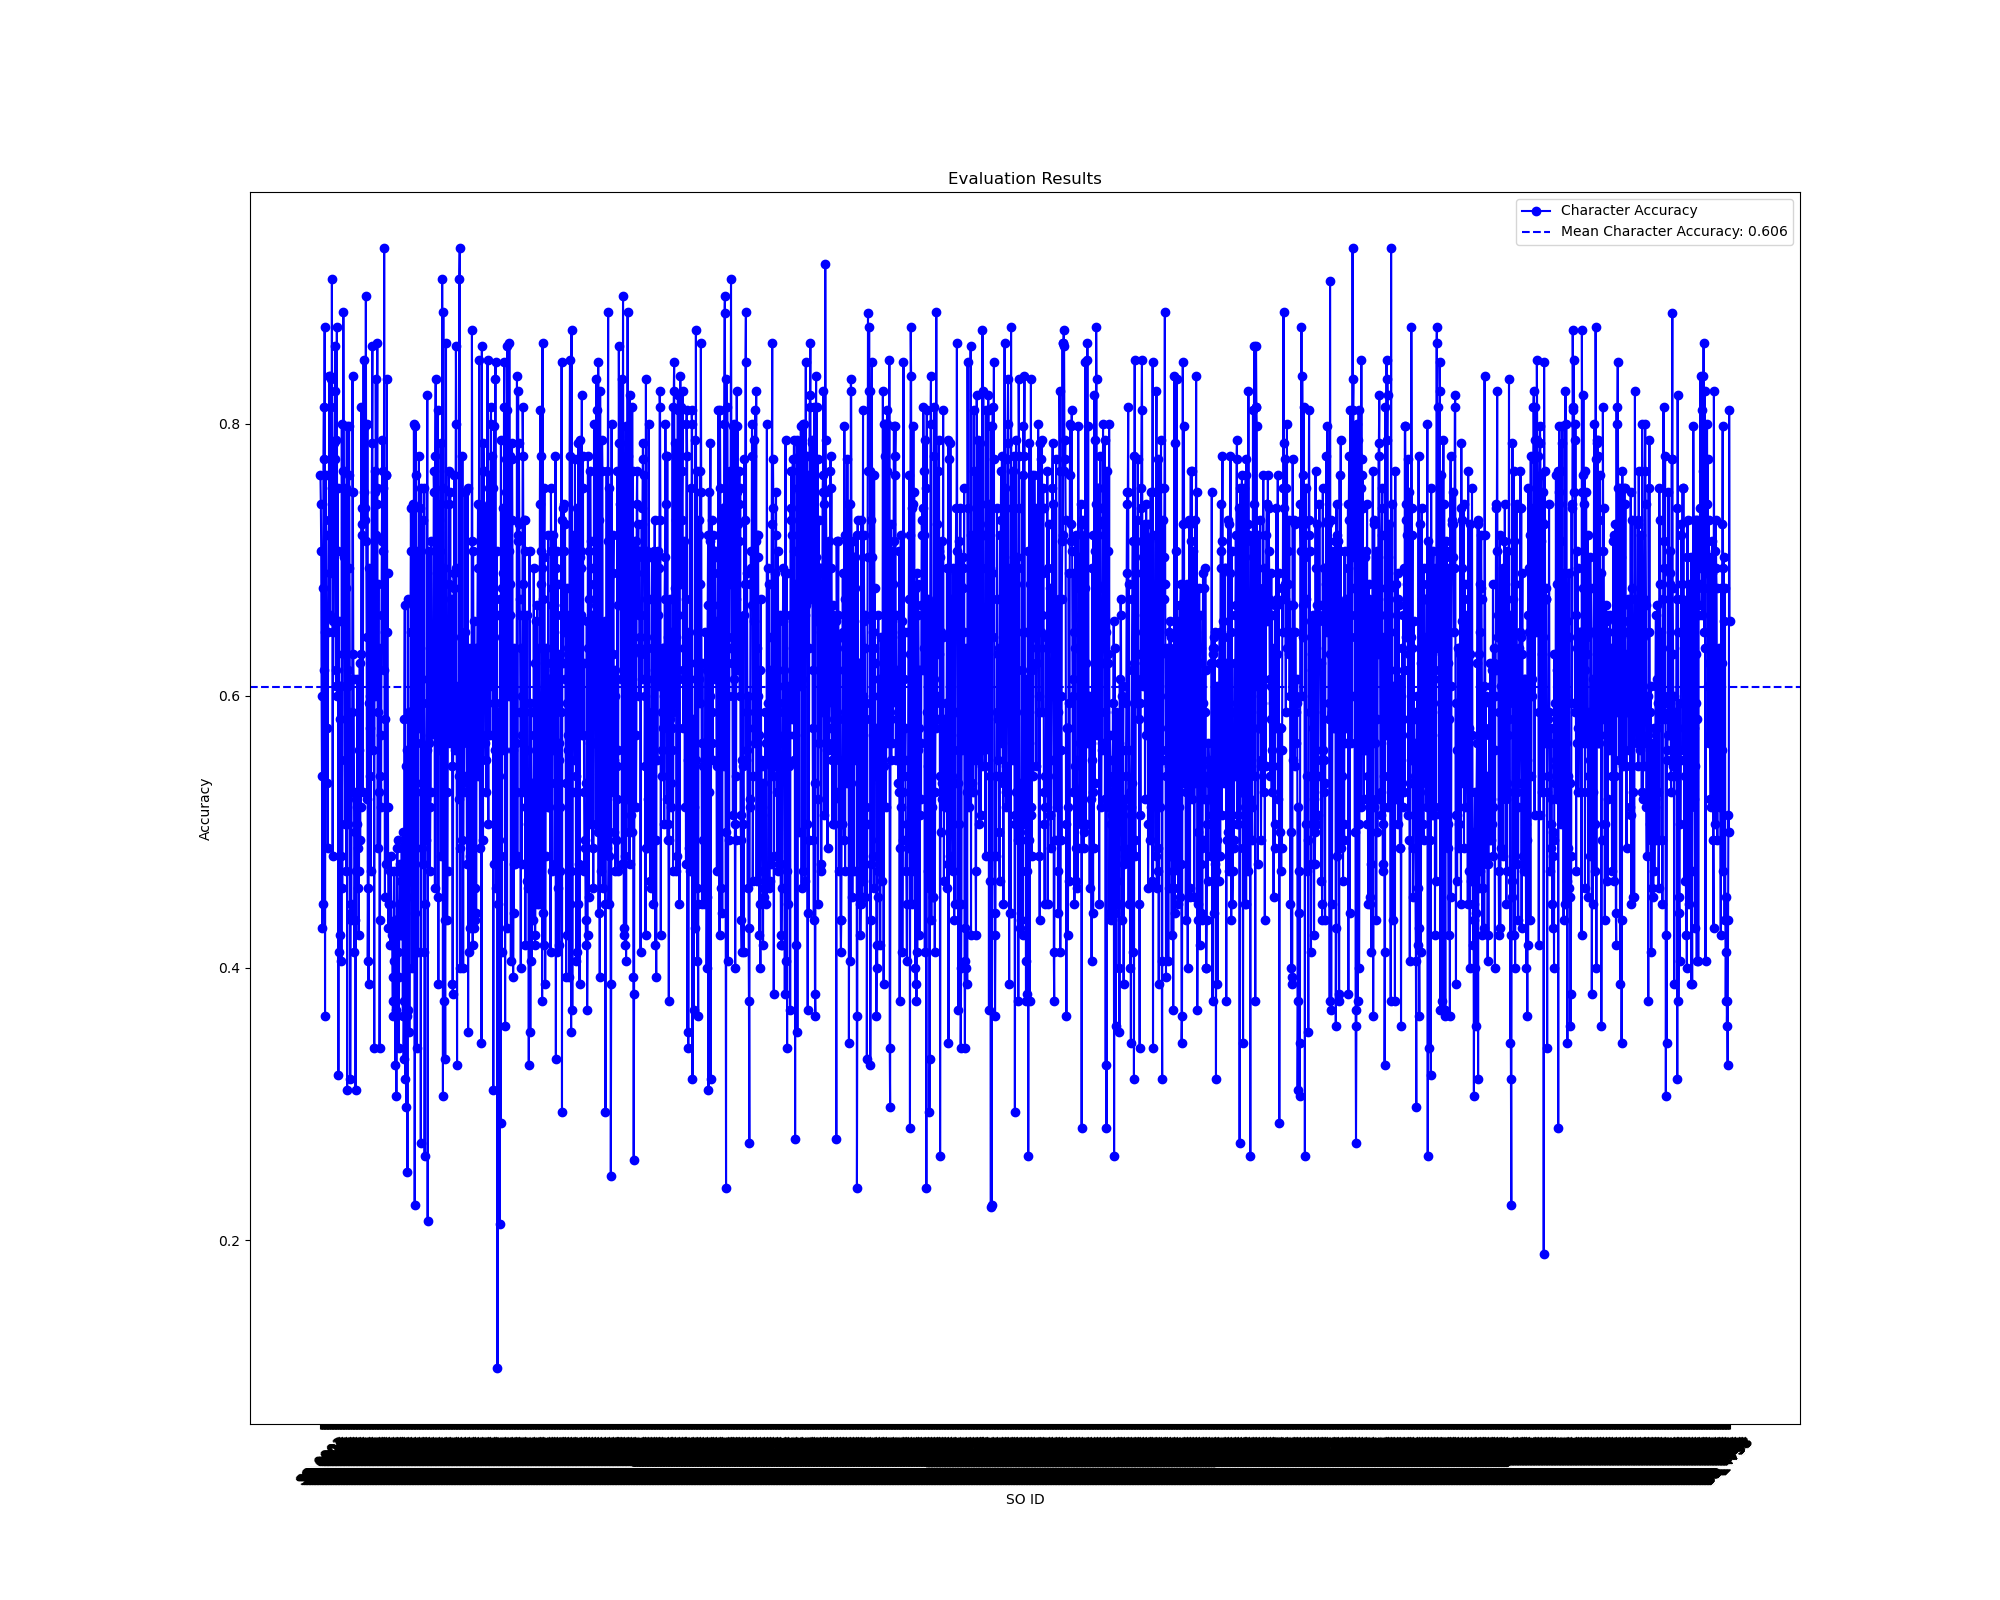
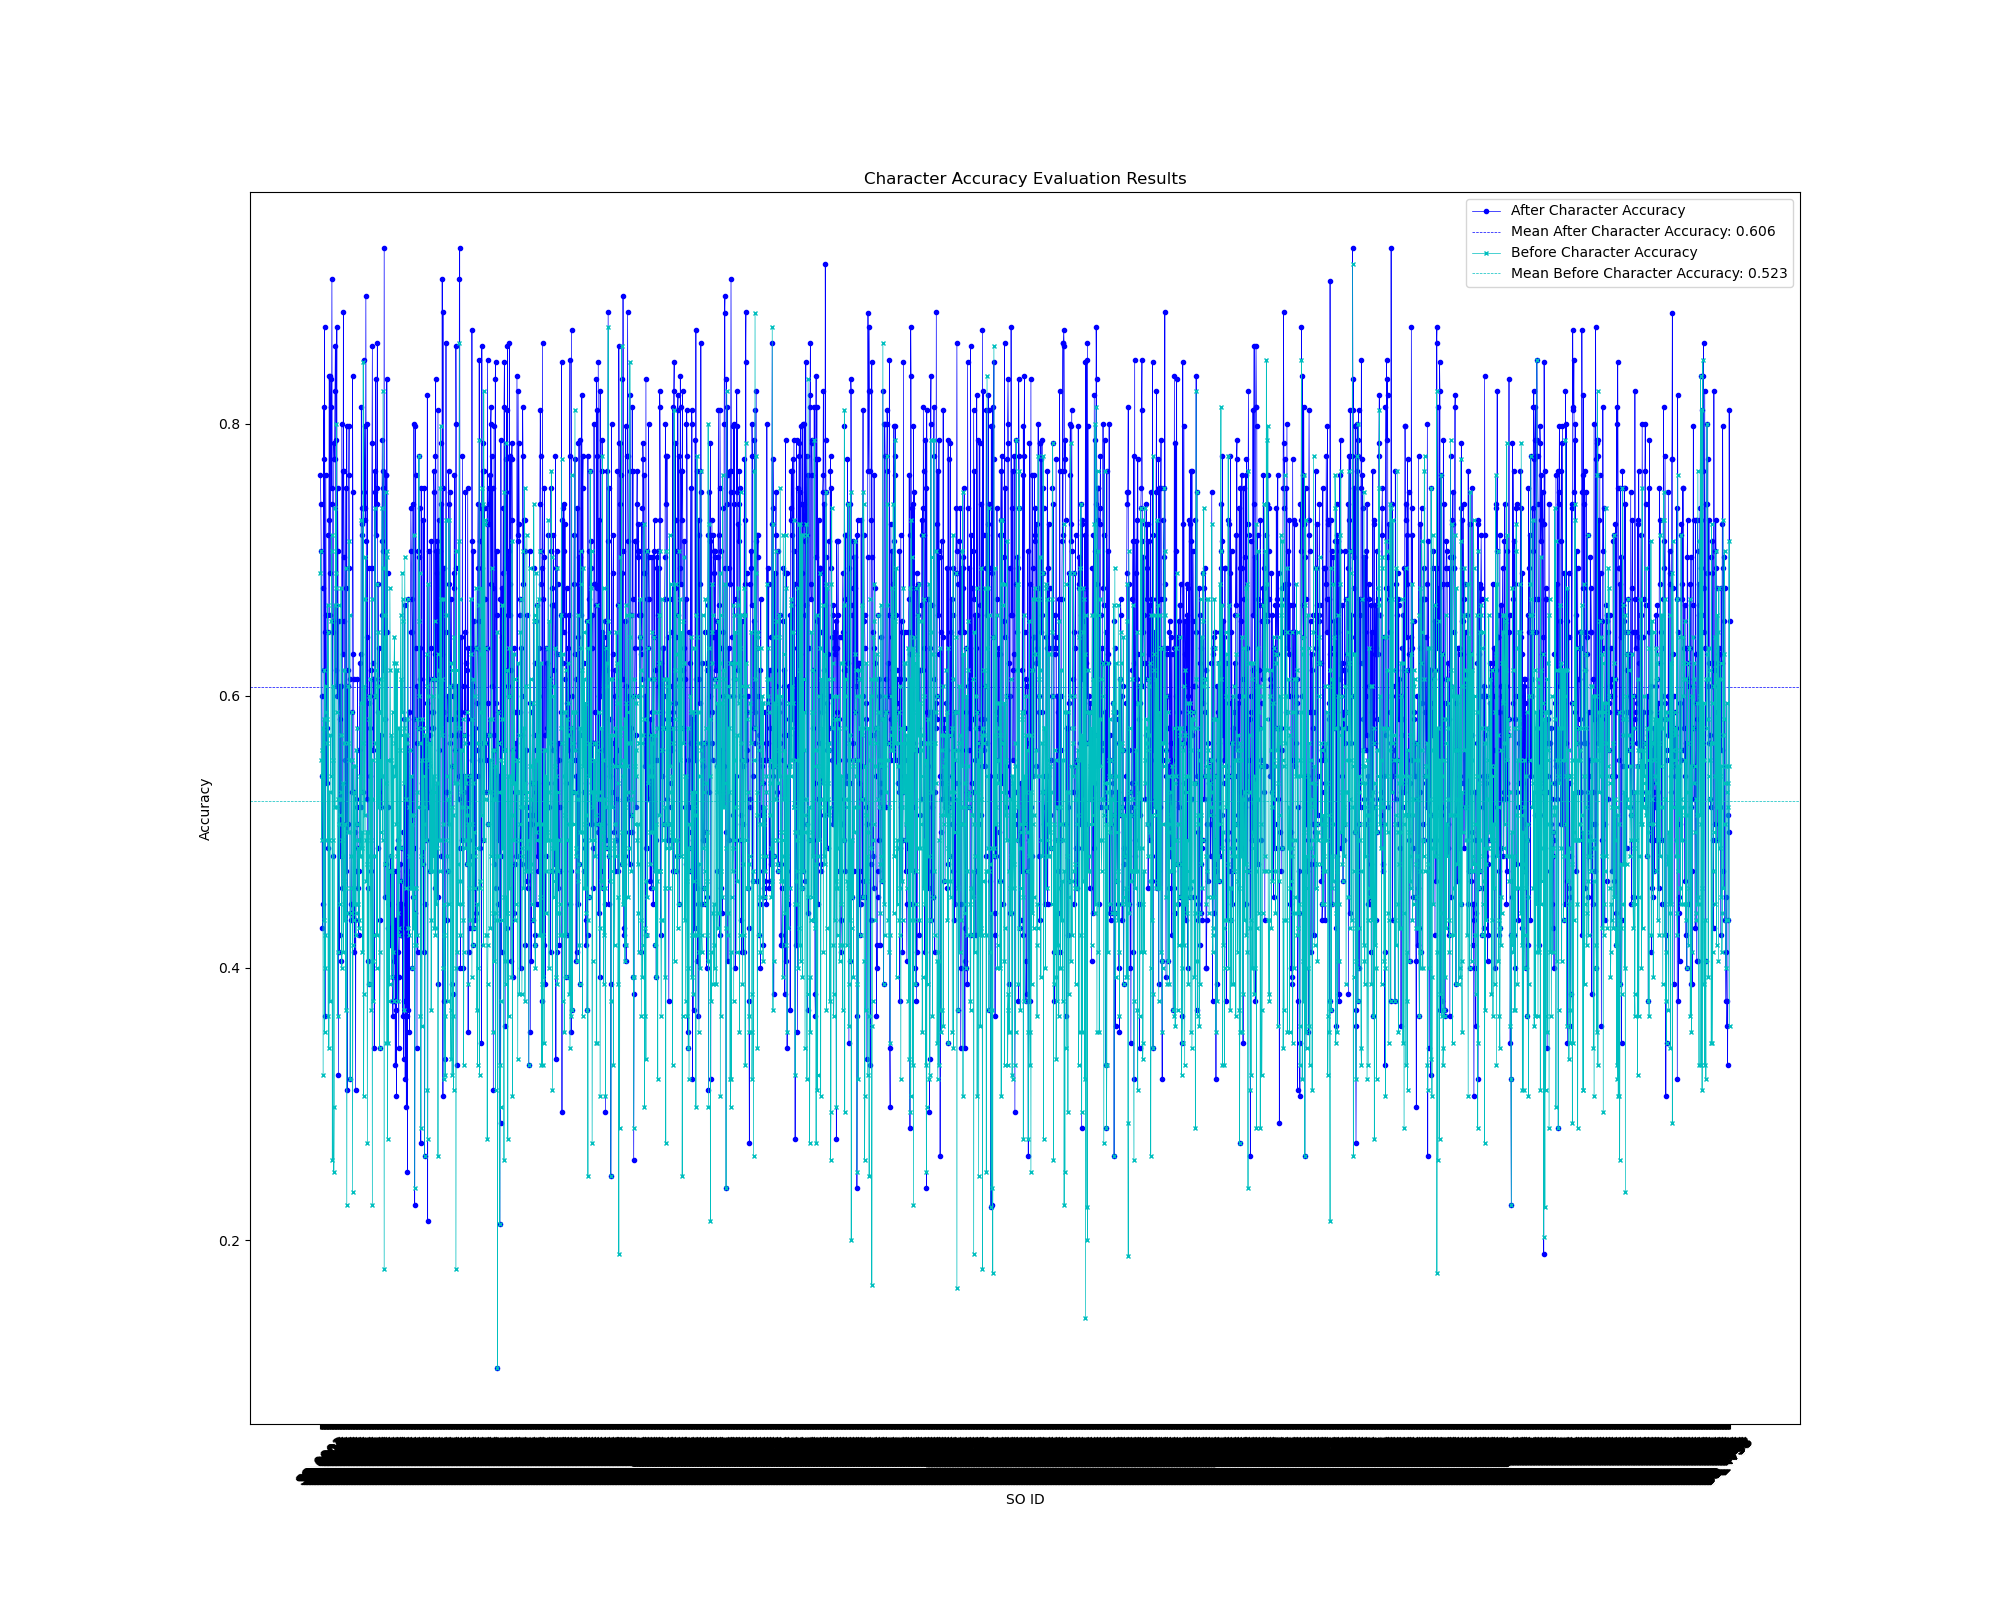
Pic

Changed region(s): [[0.155, 0.1875, 0.868, 0.75], [0.744, 0.125, 0.899, 0.1875], [0.465, 0.0938, 0.589, 0.125]]

diff --git a/src/predict/draw.py b/src/predict/draw.py
@@ -2,7 +2,7 @@ import re
 import matplotlib.pyplot as plt
 import numpy as np
 
-text_path = 'src/predict/evaluation_results.txt'
+text_path = 'src/predict/evaluation_results_before.txt'
 with open(text_path, 'r') as file:
     text = file.read()
 
@@ -29,25 +29,26 @@ reasoning_accuracy_set = [float(s) for s in reasoning_accuracy_set]
 mean_character_accuracy = np.mean(character_accuracy_set)
 mean_reasoning_accuracy = np.mean(reasoning_accuracy_set)
 
-plt.figure(figsize=(20, 16))
+print('cha_acc, rea_acc',mean_character_accuracy, mean_reasoning_accuracy)
 
-plt.plot(x_values, reasoning_accuracy_set, marker='o', linestyle='-', color='r', label='Reasoning Accuracy')
-plt.axhline(y=mean_reasoning_accuracy, color='r', linestyle='--', label=f'Mean Reasoning Accuracy: {mean_reasoning_accuracy:.3f}')
+plt.figure(figsize=(20, 16))
+# 调整线条宽度和标记大小
+plt.plot(x_values, reasoning_accuracy_set, marker='o', linestyle='-', color='r', label='Reasoning Accuracy', linewidth=0.5, markersize=3)
+plt.axhline(y=mean_reasoning_accuracy, color='r', linestyle='--', label=f'Mean Reasoning Accuracy: {mean_reasoning_accuracy:.3f}', linewidth=0.5)
 plt.xlabel('SO ID')
 plt.ylabel('Accuracy')
 plt.title('Evaluation Results')
 plt.xticks(x_values, id_set, rotation=45)
 plt.legend()
-plt.savefig('src/predict/reasoning_acc.png')
-
+plt.savefig('src/predict/reasoning_acc_bfe.png')
 
 
 plt.figure(figsize=(20, 16))
-plt.plot(x_values, character_accuracy_set, marker='o', linestyle='-', color='b', label='Character Accuracy')
-plt.axhline(y=mean_character_accuracy, color='b', linestyle='--', label=f'Mean Character Accuracy: {mean_character_accuracy:.3f}')
+plt.plot(x_values, character_accuracy_set, marker='o', linestyle='-', color='b', label='Character Accuracy', linewidth=0.5, markersize=3)
+plt.axhline(y=mean_character_accuracy, color='b', linestyle='--', label=f'Mean Character Accuracy: {mean_character_accuracy:.3f}', linewidth=0.5)
 plt.xlabel('SO ID')
 plt.ylabel('Accuracy')
 plt.title('Evaluation Results')
 plt.xticks(x_values, id_set, rotation=45)
 plt.legend()
-plt.savefig('src/predict/character_acc.png')
+plt.savefig('src/predict/character_acc_bfe.png')
